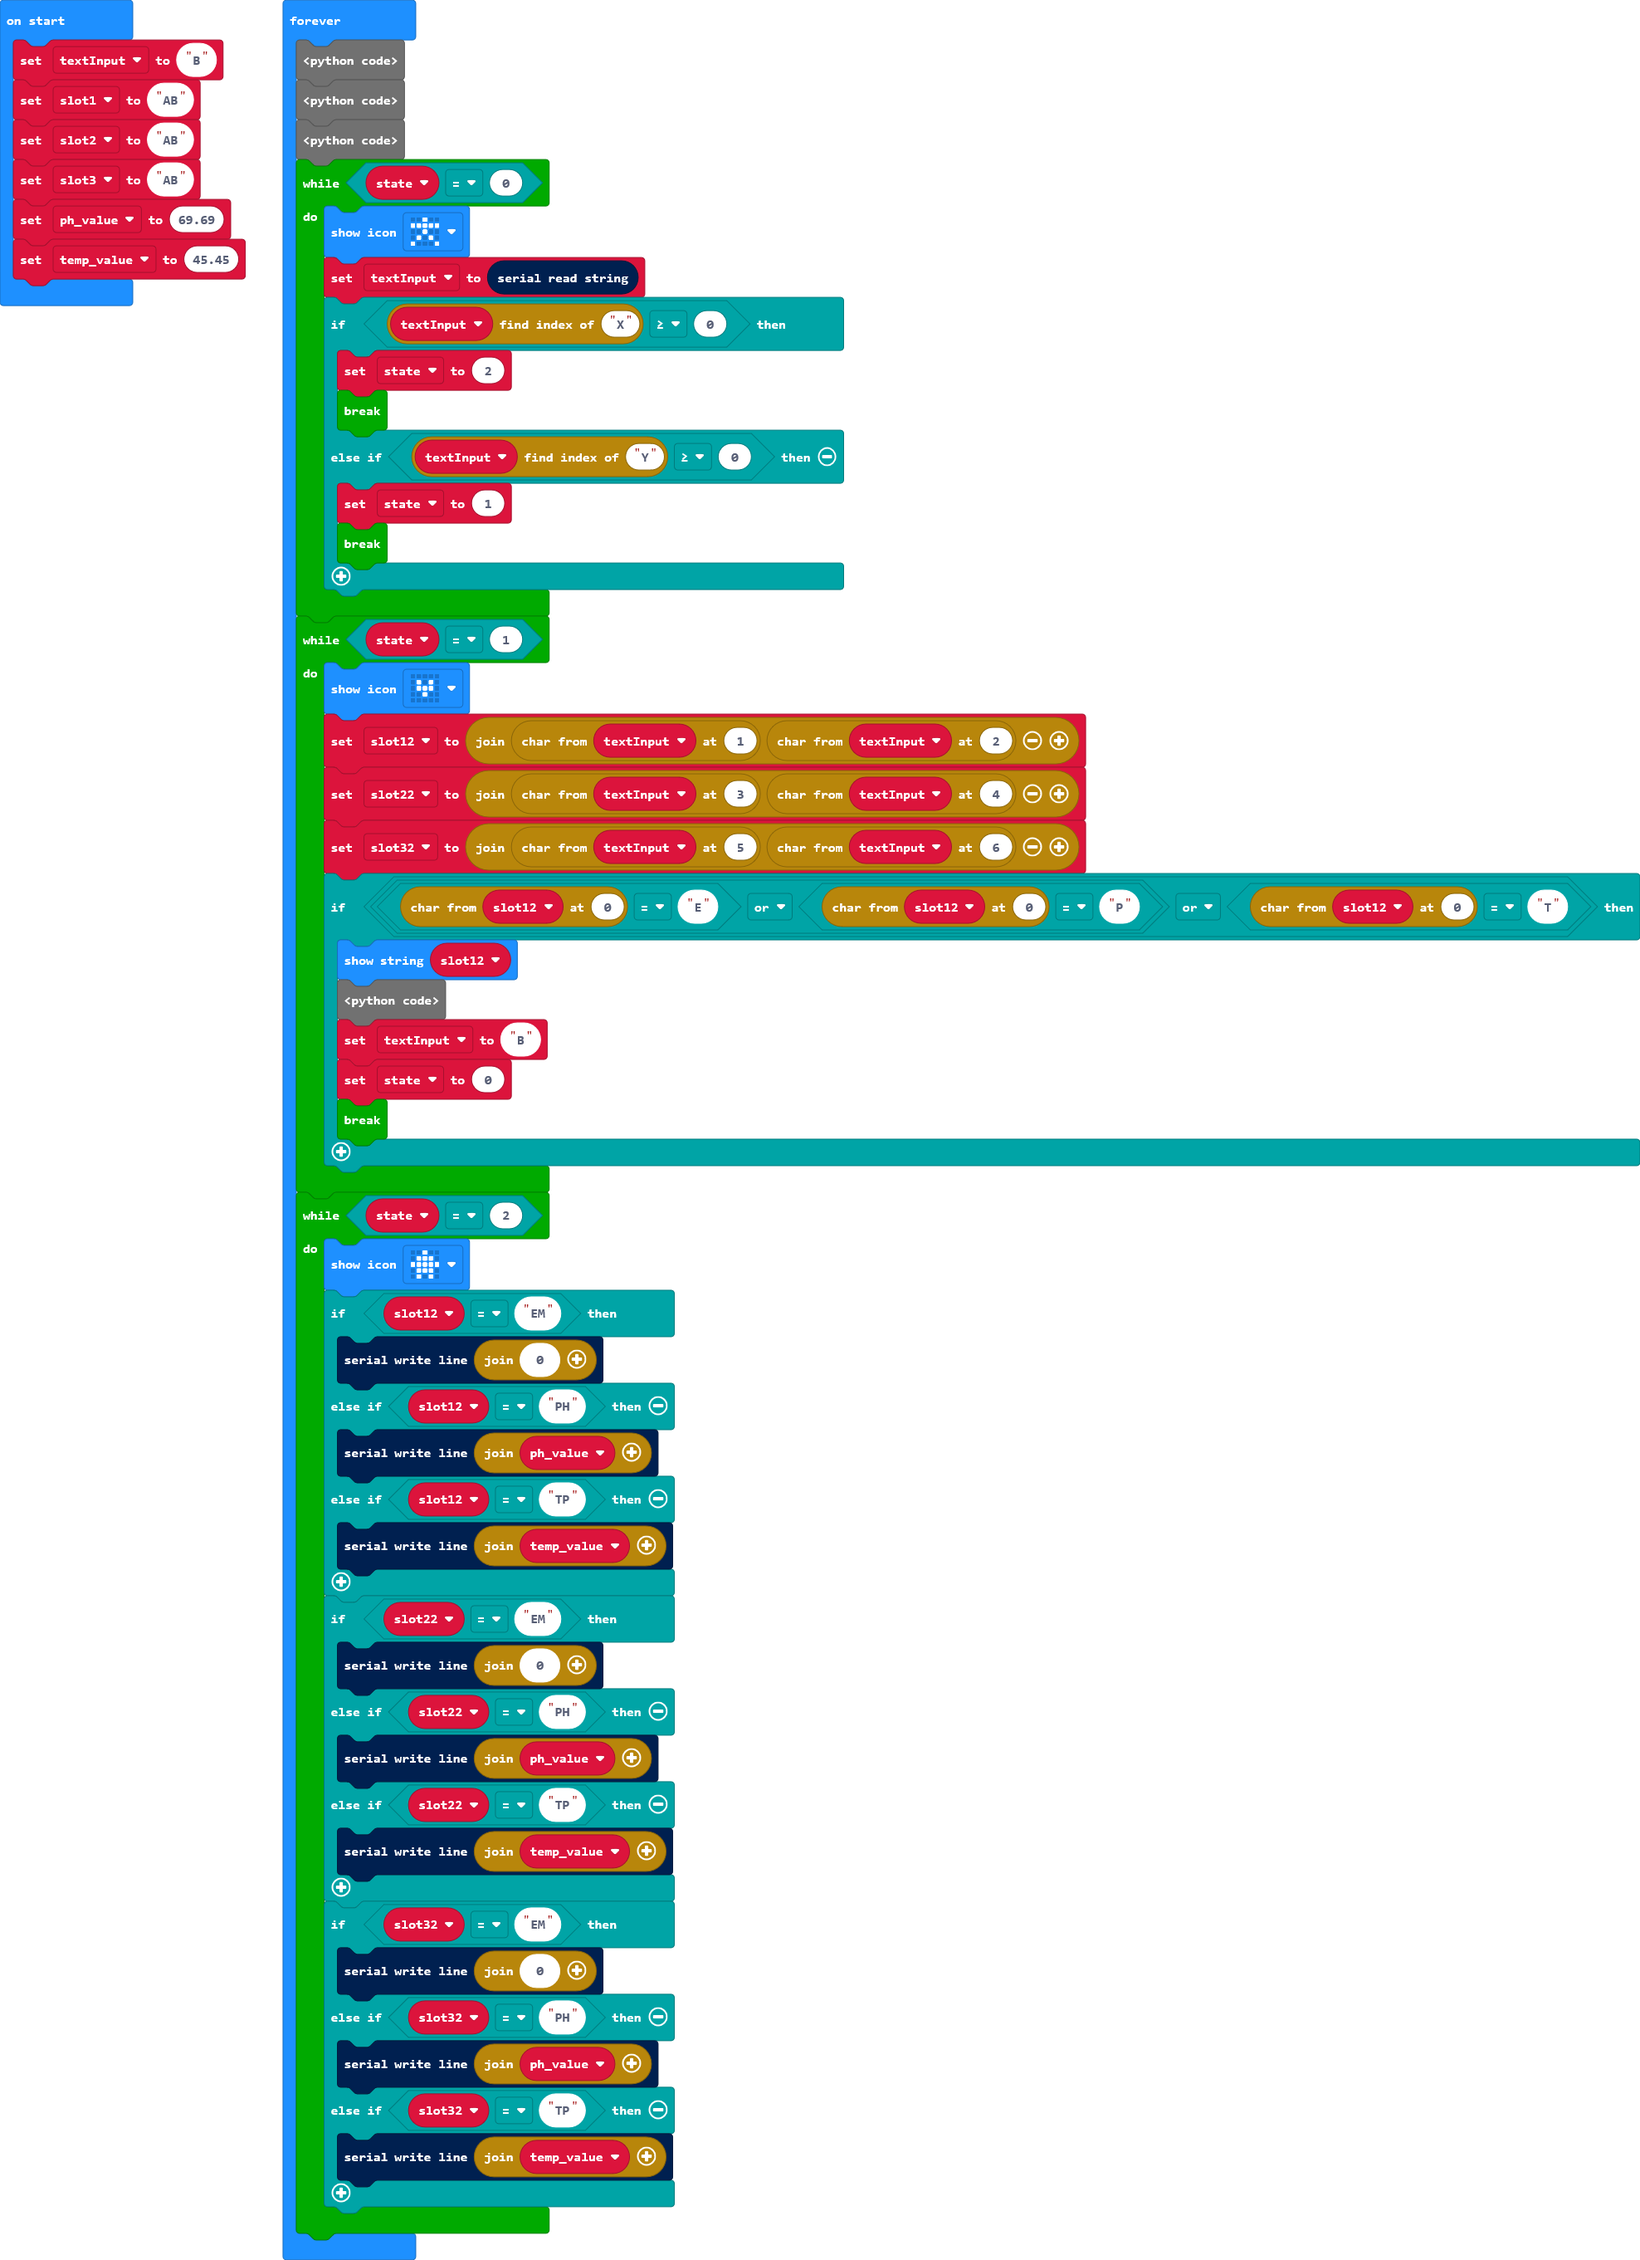
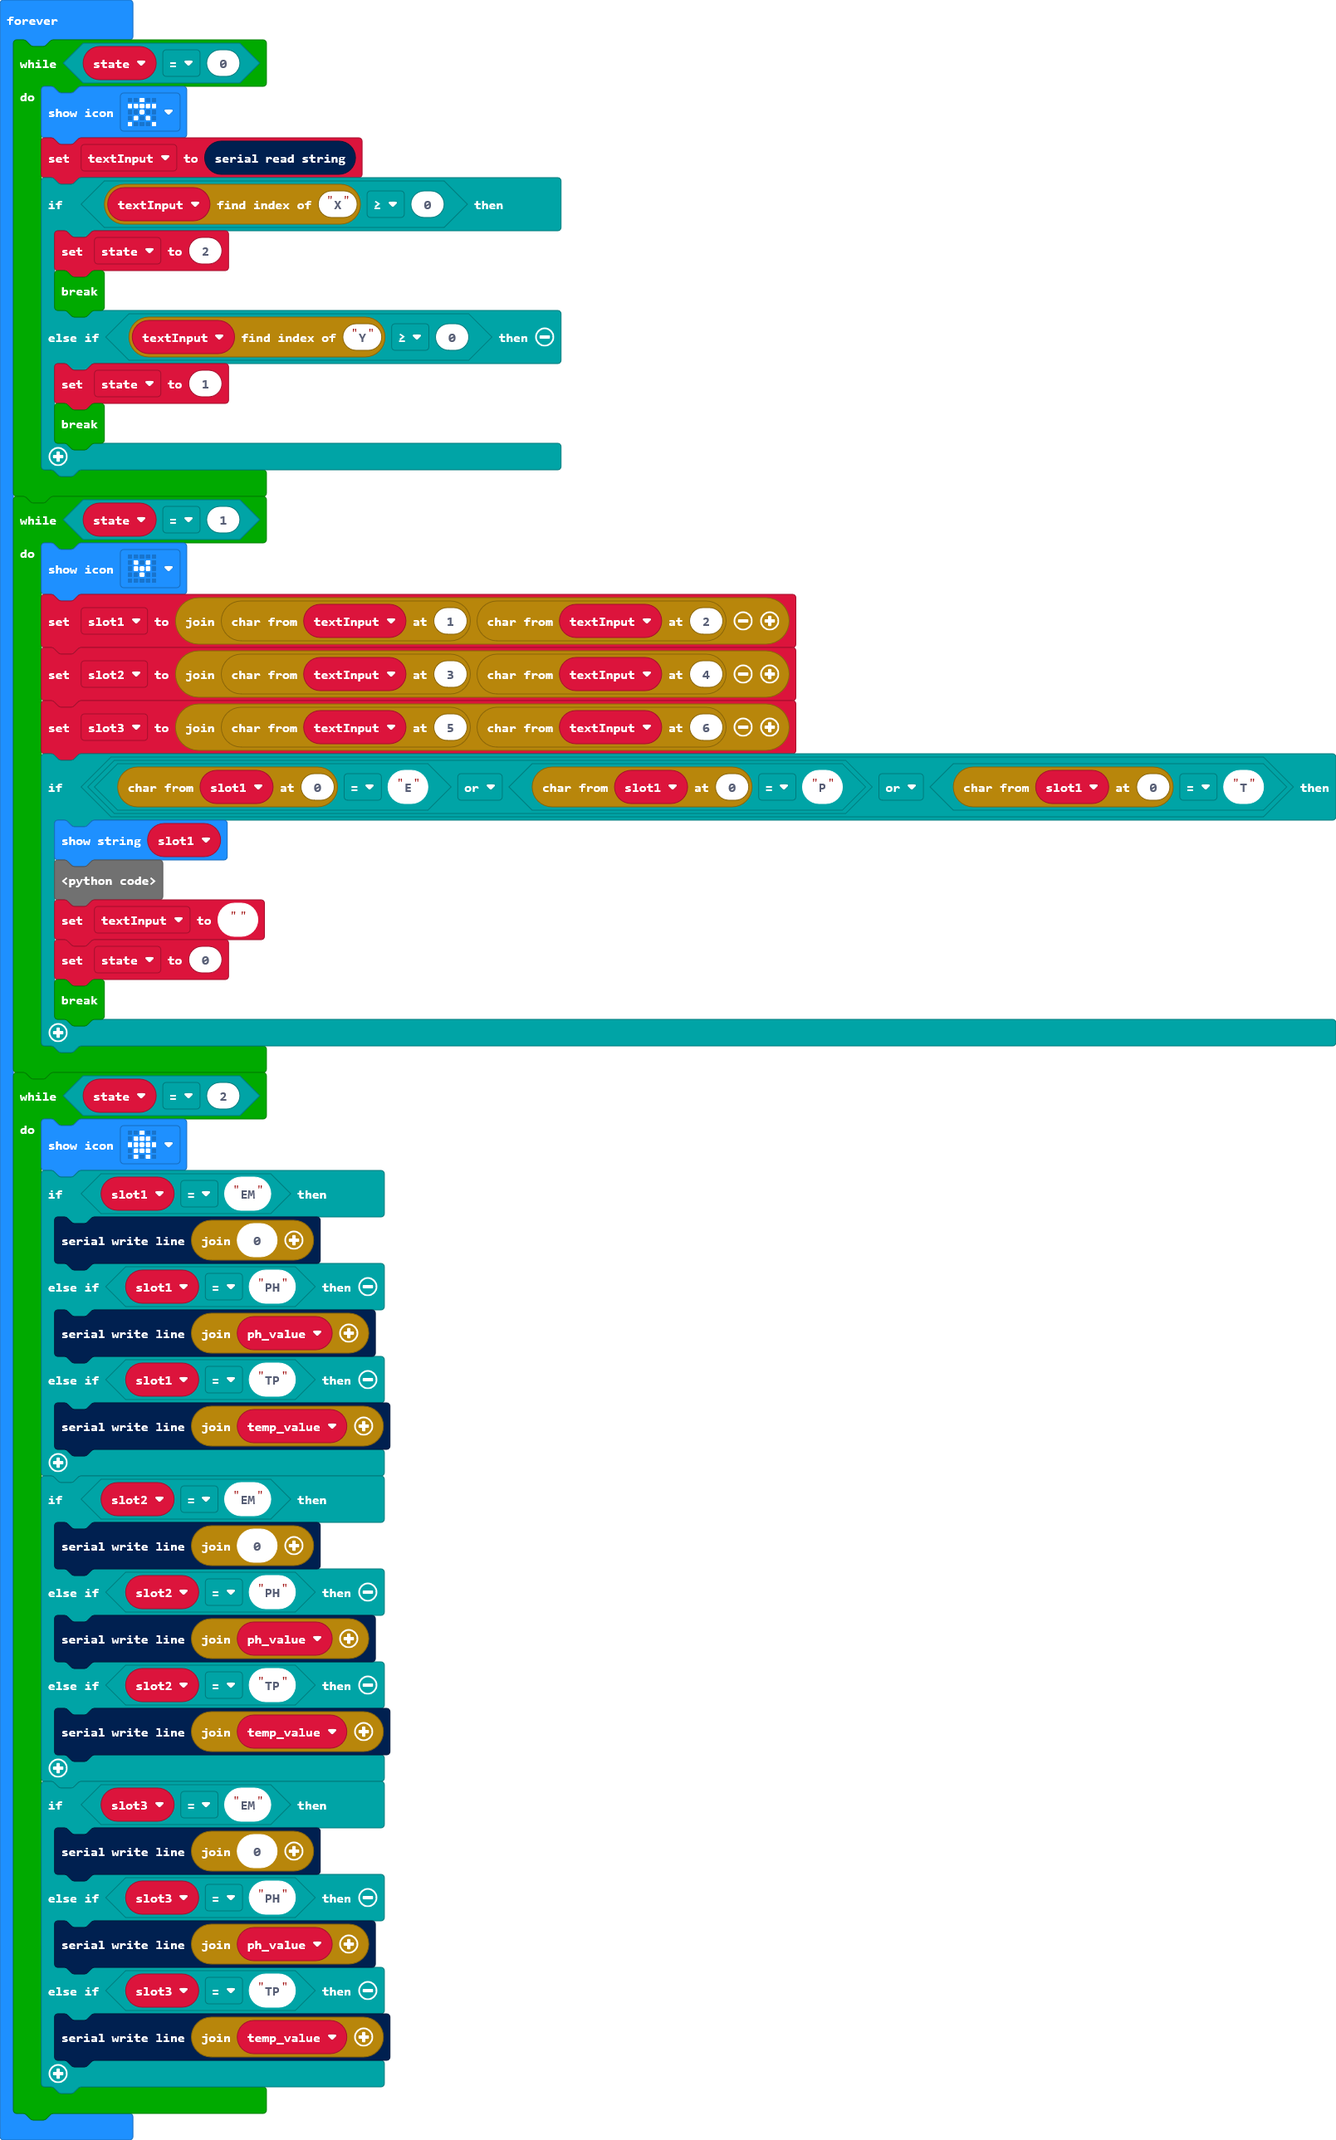
Update main.blocks, main.ts, main.py

diff --git a/main.ts b/main.ts
@@ -1,36 +1,33 @@
 let state = 0
-let textInput = "B"
-let slot1 = "AB"
-let slot2 = "AB"
-let slot3 = "AB"
+let textInput = ""
+let slot1 = ""
+let slot2 = ""
+let slot3 = ""
 let ph_value = 69.69
-let temp_value = 45.45
+let temp_value = 42.34
 basic.forever(function on_forever() {
-    let slot12: string;
-    let slot22: any;
-    let slot32: any;
     
     while (state == 0) {
         basic.showIcon(IconNames.StickFigure)
         textInput = serial.readString()
-        if (textInput.indexOf("X") >= 0) {
-            state = 2
-            break
-        } else if (textInput.indexOf("Y") >= 0) {
+        if (textInput.charAt(0) == "C") {
             state = 1
+            break
+        } else if (textInput.charAt(0) == "M") {
+            state = 2
             break
         }
         
     }
     while (state == 1) {
         basic.showIcon(IconNames.SmallHeart)
-        slot12 = "" + textInput.charAt(1) + textInput.charAt(2)
-        slot22 = "" + textInput.charAt(3) + textInput.charAt(4)
-        slot32 = "" + textInput.charAt(5) + textInput.charAt(6)
-        if (slot12.charAt(0) == "E" || slot12.charAt(0) == "P" || slot12.charAt(0) == "T") {
-            basic.showString(slot12)
+        slot1 = "" + textInput.charAt(1) + textInput.charAt(2)
+        slot2 = "" + textInput.charAt(3) + textInput.charAt(4)
+        slot3 = "" + textInput.charAt(5) + textInput.charAt(6)
+        if (slot1.charAt(0) == "E" || slot1.charAt(0) == "P" || slot1.charAt(0) == "T") {
+            basic.showString(slot1)
             pause(200)
-            textInput = "B"
+            textInput = ""
             state = 0
             break
         }
@@ -38,29 +35,31 @@ basic.forever(function on_forever() {
     }
     while (state == 2) {
         basic.showIcon(IconNames.House)
-        if (slot12 == "EM") {
-            serial.writeLine("" + ("" + 0))
-        } else if (slot12 == "PH") {
+        if (slot1 == "EM") {
+            serial.writeLine("EMPTY")
+        } else if (slot1 == "PH") {
             serial.writeLine("" + ("" + ph_value))
-        } else if (slot12 == "TP") {
+        } else if (slot1 == "TP") {
             serial.writeLine("" + ("" + temp_value))
         }
         
-        if (slot22 == "EM") {
-            serial.writeLine("" + ("" + 0))
-        } else if (slot22 == "PH") {
+        if (slot2 == "EM") {
+            serial.writeLine("EMPTY")
+        } else if (slot2 == "PH") {
             serial.writeLine("" + ("" + ph_value))
-        } else if (slot22 == "TP") {
+        } else if (slot2 == "TP") {
             serial.writeLine("" + ("" + temp_value))
         }
         
-        if (slot32 == "EM") {
-            serial.writeLine("" + ("" + 0))
-        } else if (slot32 == "PH") {
+        if (slot3 == "EM") {
+            serial.writeLine("EMPTY")
+        } else if (slot3 == "PH") {
             serial.writeLine("" + ("" + ph_value))
-        } else if (slot32 == "TP") {
+        } else if (slot3 == "TP") {
             serial.writeLine("" + ("" + temp_value))
         }
         
+        pause(200)
+        state = 0
     }
 })

diff --git a/main.py b/main.py
@@ -1,51 +1,53 @@
 state = 0
-textInput = "B"
-slot1 = "AB"
-slot2 = "AB"
-slot3 = "AB"
+textInput = ""
+slot1 = ""
+slot2 = ""
+slot3 = ""
 ph_value = 69.69
-temp_value = 45.45
+temp_value = 42.34
 
 def on_forever():
-    global textInput, state
+    global textInput, state, slot1, slot2, slot3, ph_value, temp_value
     while state == 0:
         basic.show_icon(IconNames.STICK_FIGURE)
         textInput = serial.read_string()
-        if textInput.index_of("X") >= 0:
-            state = 2
-            break
-        elif textInput.index_of("Y") >= 0:
+        if textInput.char_at(0) == 'C':
             state = 1
+            break
+        elif textInput.char_at(0) == 'M':
+            state = 2
             break
     while state == 1:
         basic.show_icon(IconNames.SMALL_HEART)
-        slot12 = "" + textInput.char_at(1) + textInput.char_at(2)
-        slot22 = "" + textInput.char_at(3) + textInput.char_at(4)
-        slot32 = "" + textInput.char_at(5) + textInput.char_at(6)
-        if slot12.char_at(0) == "E" or slot12.char_at(0) == "P" or slot12.char_at(0) == "T":
-            basic.show_string(slot12)
+        slot1 = "" + textInput.char_at(1) + textInput.char_at(2)
+        slot2 = "" + textInput.char_at(3) + textInput.char_at(4)
+        slot3 = "" + textInput.char_at(5) + textInput.char_at(6)
+        if slot1.char_at(0) == "E" or slot1.char_at(0) == "P" or slot1.char_at(0) == "T":
+            basic.show_string(slot1)
             pause(200)
-            textInput = "B"
+            textInput = ""
             state = 0
             break
     while state == 2:
         basic.show_icon(IconNames.HOUSE)
-        if slot12 == "EM":
-            serial.write_line("" + str(0))
-        elif slot12 == "PH":
+        if slot1 == "EM":
+            serial.write_line("EMPTY")
+        elif slot1 == "PH":
             serial.write_line("" + str(ph_value))
-        elif slot12 == "TP":
+        elif slot1 == "TP":
             serial.write_line("" + str(temp_value))
-        if slot22 == "EM":
-            serial.write_line("" + str(0))
-        elif slot22 == "PH":
+        if slot2 == "EM":
+            serial.write_line("EMPTY")
+        elif slot2 == "PH":
             serial.write_line("" + str(ph_value))
-        elif slot22 == "TP":
+        elif slot2 == "TP":
             serial.write_line("" + str(temp_value))
-        if slot32 == "EM":
-            serial.write_line("" + str(0))
-        elif slot32 == "PH":
+        if slot3 == "EM":
+            serial.write_line("EMPTY")
+        elif slot3 == "PH":
             serial.write_line("" + str(ph_value))
-        elif slot32 == "TP":
+        elif slot3 == "TP":
             serial.write_line("" + str(temp_value))
+        pause(200)
+        state = 0
 basic.forever(on_forever)
